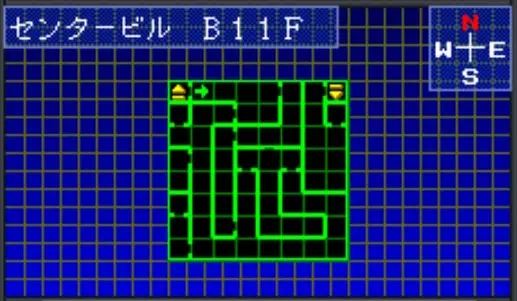
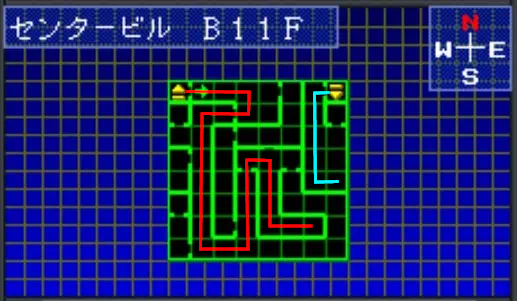
updated maps

Changed region(s): [[0.3404, 0.299, 0.619, 0.8372], [0.588, 0.299, 0.6499, 0.6279]]

diff --git a/src/data/blog/smt20xx.md b/src/data/blog/smt20xx.md
@@ -19,6 +19,8 @@ Stats:
 - Hero - SPD til 10, STR til 12, SPD til 15, STR til 20, VIT?
 - Ain - SPD til 9, MAG til 14, SPD til 13, MAG/VIT?
 
+In the maps, the white spot represents where you fell from a higher floor.
+
 ## Downtown
 
 ![Downtown](@/assets/images/smt20xxmaps/downtown.png)
@@ -142,21 +144,30 @@ Grab Core Shield. Head to B4F for the Blue switch.
 
 ### B4F
 
-![South Section B4F](@/assets/images/smt20xxmaps/southB4F.png)
+![South Section B4F](@/assets/images/smt20xxmaps/southB4F-2.png)
 
 Press blue switch, go up.
 
+### B3F
+
+![South Section B3F](@/assets/images/smt20xxmaps/southB3F-3.png)
+
 ### B4F
+
+![South Section B4F](@/assets/images/smt20xxmaps/southB4F.png)
 
 Go down to B5F.
 
 ### B5F
 
 ![South Section B5F](@/assets/images/smt20xxmaps/southB5F.png)
+Follow the red line, blue line, yellow line, purple line. 
 
-Equip Rocket Hammer and get Disc 3.
+Equip Rocket Hammer and get Disc 3. Then backtrack to B4F.
 
 ### B4F
+
+![South Section B4F](@/assets/images/smt20xxmaps/southB4F.png)
 
 Buy a bunch of ノロイの木馬 and Grind to level 15 on both characters.
 - Try to hit enemies with 4x and throw item with Hero and Heroine.
@@ -165,13 +176,14 @@ Buy a bunch of ノロイの木馬 and Grind to level 15 on both characters.
 
 Shop (need 6000):
 - 2x Dolphin Helm
-- Megidola Stone
 
 Grab SPD Incense.
 
-Fight Lilim:
-- Sword, Megidola Stone
-Grab the Water Crown.
+![South Section B3F](@/assets/images/smt20xxmaps/southB3F-2.png)
+
+![South Section B4F](@/assets/images/smt20xxmaps/southB4F-2.png)
+
+![South Section B3F](@/assets/images/smt20xxmaps/southB3F-4.png)
 
 Transfer to East Section. Recruit a Kinnari, Ihika and Jack Lantern, while grinding some money.
 
@@ -191,10 +203,6 @@ Fights:
 Prioritze the gloves on the Ain, she stops dying. Once you hit level 18, recruit a Ocypete.
 
 Once you've bought everything, walk back to the terminal.
-
-![South Section B3F](@/assets/images/smt20xxmaps/southB3F.png)
-
-![South Section B4F](@/assets/images/smt20xxmaps/southB4F.png)
 
 Head to the Colosseum, fight round 2.
 
@@ -223,7 +231,7 @@ Then grab the 1024 Macca (3) and head back to the pit to fall.
 
 Grab the Reiki no Sword (1).
 
-Grab the VIT Incense (3) and Chakra Pot (4).
+Grab Chakra Pot (4).
 
 Grab 4800 Macca (2).
 
@@ -231,7 +239,12 @@ Grab 4800 Macca (2).
 
 ![West Section B4F](@/assets/images/smt20xxmaps/westB4F.png)
 
-Grab disc. Grab Sword and Jewel. Equip sword.
+Grab disc. 
+
+Stop by the shop and sell some extra items if needed and buy:
+- 20x Hikoubari
+
+Grab Sword and (Optional) Jewel. 
 
 Go upstairs, fuse:
 - Angel x Hag = Houou
@@ -266,11 +279,14 @@ Go through warps downstairs. Grab 2000 Macca (1).
 
 ![North Section B5F](@/assets/images/smt20xxmaps/northB5F.png)
 
-Grab the Final Guard (1). Fall down the pit.
+Bookmark terminal.
+
+Fall down the pit.
 
 ### B6F
 
 ![North Section B6F](@/assets/images/smt20xxmaps/northB6F.png)
+Top map.
 
 Grab Disc V.
 
@@ -294,6 +310,10 @@ Say YES to breaking the key to get the piece of paper. Leave and head back up to
 ### B6F
 
 ![North Section B6F](@/assets/images/smt20xxmaps/northB6F.png)
+Bottom Map.
+
+## B5F
+![North Section B5F](@/assets/images/smt20xxmaps/northB5F-2.png)
 
 Head to the passage to South B5F and through there climb back to B3F to go to the terminal and transfer to Underground.
 
@@ -319,17 +339,18 @@ At the Gym talk to everyone and then go back to the room next to the owner to ta
 Choose:
 - 助ける
 
-ダウンタウン北西の小部屋にいる若い男と会話
-ダウンタウン南西の小部屋にいるモスと会話
-ダウンタウン東の小部屋にいる男と会話
-BARにてやせた男、若い女、労働者と会話
+![Downtown Rescue](@/assets/images/smt20xxmaps/downtown-rescue.png)
 
-GYMに戻るとGYM前でイベント、選択肢あり。
-そんなことない：Chaos
-そうかもしれない：Law
-GYMに入り少し進むとイベント。
-GYMのアインのいた部屋に戻るとイベント、招待状を入手。
-ダウンタウンの北東からマダムの館間通路へ。
+Talk to the Young Man, Moss and the Man and then head into the Bar.
+
+![Bar](@/assets/images/smt20xxmaps/bar.png)
+
+Talk to the Man, Young Woman, and Worker at the Bar then return to the Gym, choose:
+- そうかもしれない
+
+Enter the Gym and go to the room where Ain was to receive the invitation from the Madame. Then go to the Madame.
+
+![Downtown](@/assets/images/smt20xxmaps/downtown-4.png)
 
 ![Madame 1F](@/assets/images/smt20xxmaps/madame1F.png)
 
@@ -337,7 +358,7 @@ GYMのアインのいた部屋に戻るとイベント、招待状を入手。
 
 Choose any option at Madame. Then go back to the Gym to the Trainer's room and watch the event.
 
-![South Section B1F](@/assets/images/smt20xxmaps/southB1F.png)
+![South Section B1F](@/assets/images/smt20xxmaps/southB1F-2.png)
 
 Transfer to the Underground and go to South Section B1F to head to the Prison.
 
